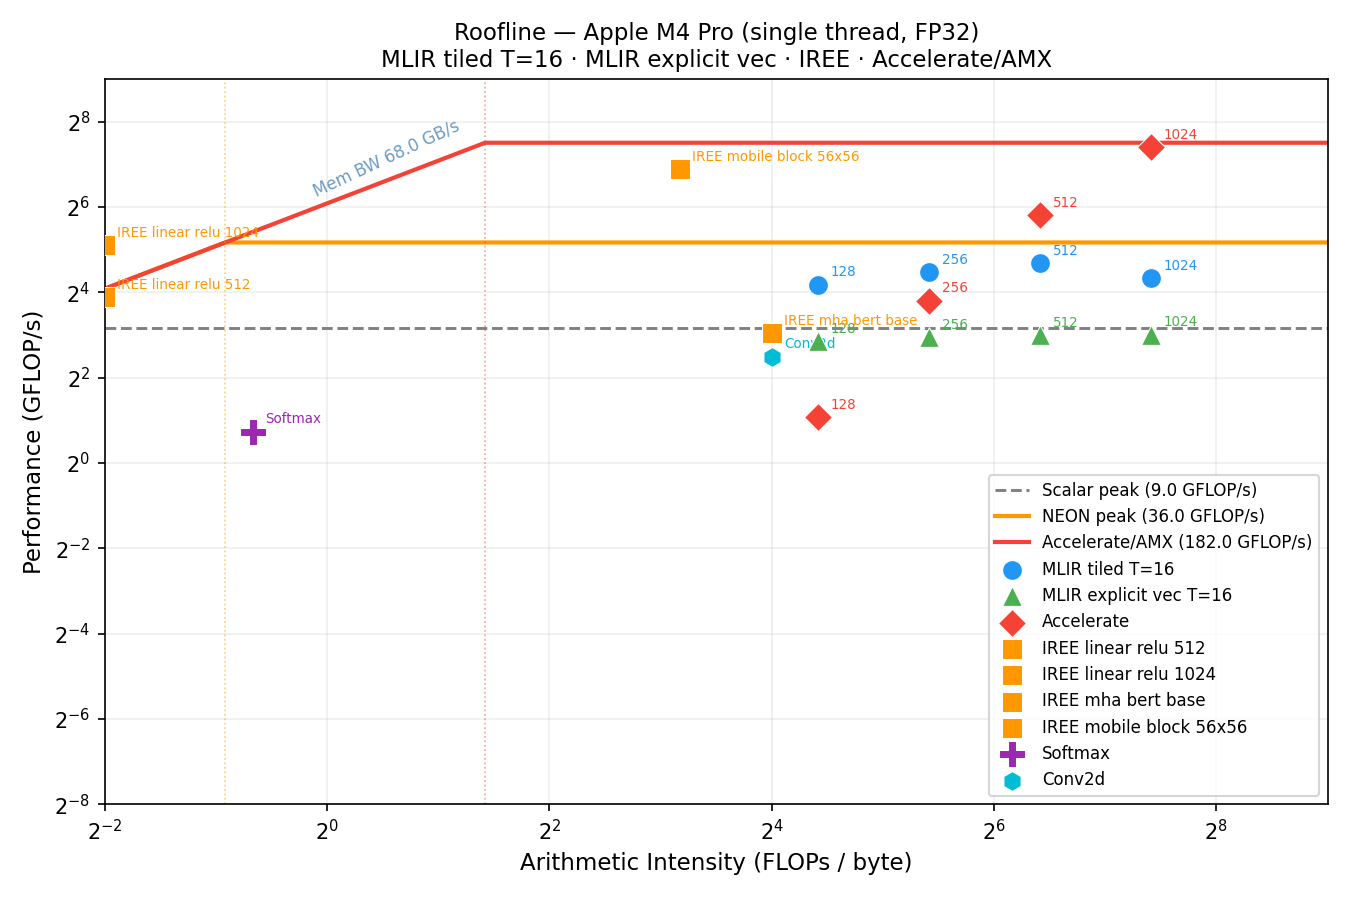
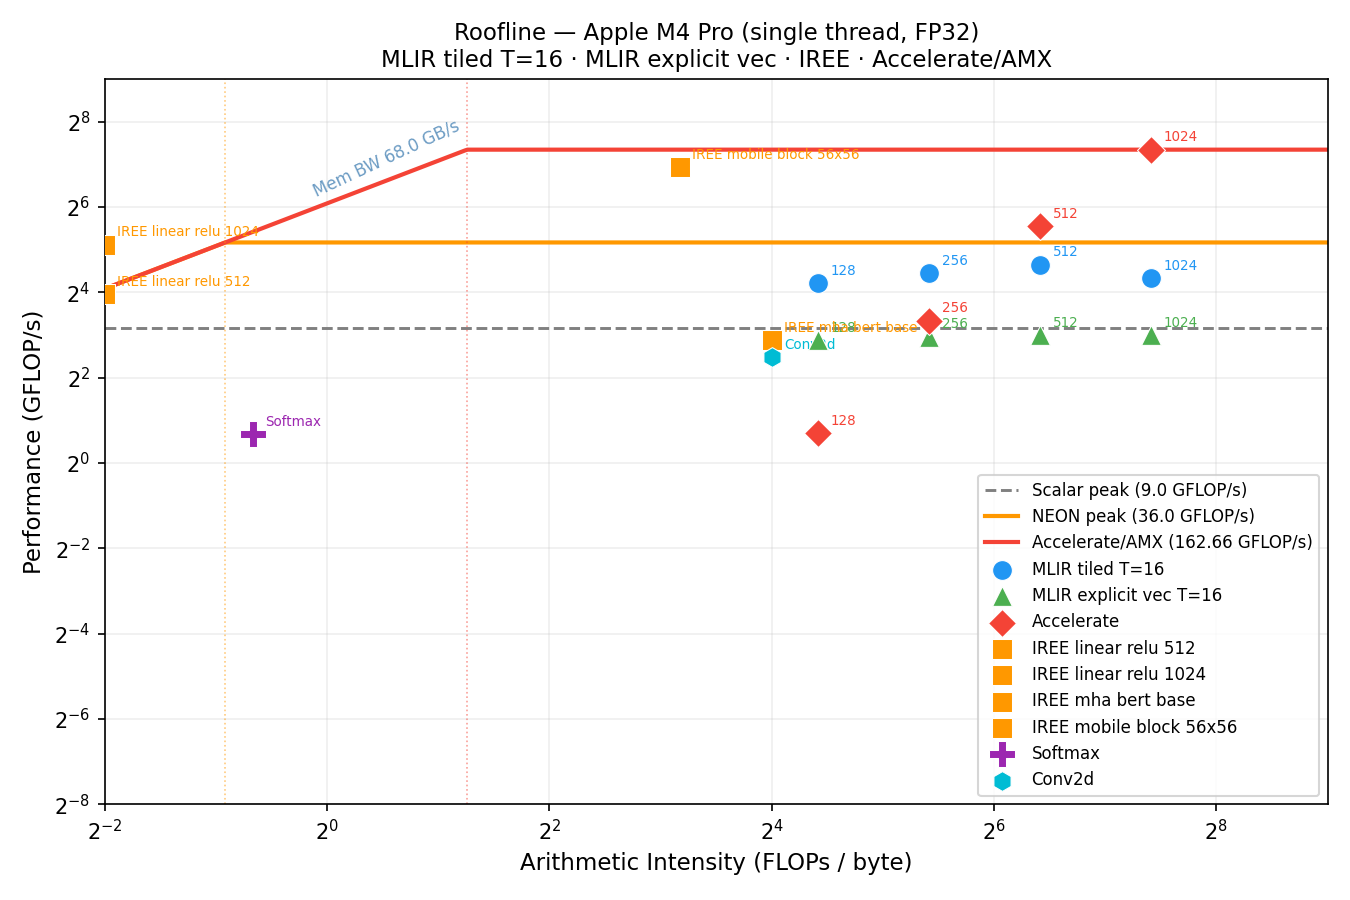
Update results

diff --git a/baselines/blas_matmul.c b/baselines/blas_matmul.c
@@ -3,7 +3,8 @@
 //
 // Build:  clang -O3 -march=native -DSIZE=512 blas_matmul.c -o blas_matmul_512 \
 //               -framework Accelerate
-// Run:    hyperfine --warmup 5 --runs 20 ./blas_matmul_512
+// Run:    ./blas_matmul_512 [NITER]   (default NITER=1)
+//   NITER>1 amortises process-startup overhead: report hyperfine wall-time / NITER.
 
 #include <Accelerate/Accelerate.h>
 #include <math.h>
@@ -21,7 +22,8 @@ static void fill_random(float *buf, int n) {
         buf[i] = (float)rand() / (float)RAND_MAX - 0.5f;
 }
 
-int main(void) {
+int main(int argc, char *argv[]) {
+    int niter = argc > 1 ? atoi(argv[1]) : 1;
     srand(42);
 
     float *A = aligned_alloc(64, (size_t)SIZE * SIZE * sizeof(float));
@@ -33,12 +35,14 @@ int main(void) {
     fill_random(B, SIZE * SIZE);
     memset(C, 0, (size_t)SIZE * SIZE * sizeof(float));
 
-    cblas_sgemm(CblasRowMajor,
-                CblasNoTrans, CblasNoTrans,
-                SIZE, SIZE, SIZE,
-                1.0f, A, SIZE,
-                      B, SIZE,
-                0.0f, C, SIZE);
+    for (int iter = 0; iter < niter; iter++) {
+        cblas_sgemm(CblasRowMajor,
+                    CblasNoTrans, CblasNoTrans,
+                    SIZE, SIZE, SIZE,
+                    1.0f, A, SIZE,
+                          B, SIZE,
+                    0.0f, C, SIZE);
+    }
 
     // Anti-optimisation guard: print one value so the compiler cannot elide the call
     printf("%.6f\n", (double)C[0]);

diff --git a/scripts/plot_roofline.py b/scripts/plot_roofline.py
@@ -13,8 +13,8 @@ import matplotlib.patches as mpatches
 
 # ── Hardware constants (M4 Pro, single perf core) ─────────────────────────
 PEAK_SCALAR   = 9.0    # GFLOP/s  (2 FLOPs/cycle × 4.5 GHz, no SIMD)
-PEAK_NEON     = 36.0   # GFLOP/s  (8 f32 lanes × 2 FLOPs/cycle × 4.5 GHz)
-PEAK_AMX      = 182.0  # GFLOP/s  (Accelerate BLAS measured at N=1024 — proxy for AMX peak)
+PEAK_NEON     = 36.0   # GFLOP/s  (4 f32 lanes × 2 FLOPs/lane (FMA) × 4.5 GHz)
+PEAK_AMX      = 182.0  # GFLOP/s  fallback; overwritten below from rq5_vs_baseline.csv
 MEM_BW        = 68.0   # GB/s
 
 RESULTS = os.path.join(os.path.dirname(__file__), "..", "results")
@@ -34,6 +34,10 @@ if os.path.exists(rq5_file):
             key = (int(row["size_N"]), row["variant"])
             if row["gflops"] not in ("N/A", ""):
                 rq5[key] = float(row["gflops"])
+
+# Derive PEAK_AMX from the measured Accelerate N=1024 result (proxy for AMX ceiling)
+if (1024, "accelerate_blas") in rq5:
+    PEAK_AMX = rq5[(1024, "accelerate_blas")]
 
 for N in [128, 256, 512, 1024]:
     ai = matmul_ai(N)

diff --git a/README.md b/README.md
@@ -2,6 +2,8 @@
 
 Empirical study of MLIR optimization passes on AArch64 CPU (Apple M4 Pro), assisted by `Claude:Sonnet4.7`.
 
+> Results and discussion: **[federicobruzzone.github.io/posts/mlir-study.html](https://federicobruzzone.github.io/posts/mlir-study.html)**
+
 ## Roofline
 
 ![Roofline — Apple M4 Pro](results/roofline.png)
@@ -17,7 +19,7 @@ Empirical study of MLIR optimization passes on AArch64 CPU (Apple M4 Pro), assis
 | **RQ1** | How does tile size affect performance across problem sizes on AArch64? | T=16 is **4–6× faster than T=64** (up to 9× vs worst tile at N=1024). llvm-mca shows same IPC across tile sizes — the speedup is purely from cache behavior, not instruction quality. T=64 triggers catastrophic cache aliasing with `--mattr=apple-m4` at `-O3`. |
 | **RQ2** | Do Affine, SCF, and tiled lowering paths produce measurably different performance? | Affine ≡ SCF (< 0.1% difference at all sizes). T=16 tiling gives **7–8× speedup** over untiled at N ≥ 512 (N=1024: 863ms → 106ms). |
 | **RQ3** | What is the impact of `--affine-loop-fusion` on a matmul+relu+bias chain? | No measurable effect (Δ < 1σ): matmul O(N³) dominates; elementwise ops are < 0.2% of total time. |
-| **RQ4** | Do the same tiling patterns hold across conv2d, batch\_matmul, softmax? | Yes for compute-bound kernels (conv2d, batch\_matmul). Softmax is memory-bound (AI = 0.63 FLOPs/B < ridge point) and does not benefit from tiling. |
+| **RQ4** | Do the same tiling patterns hold across conv2d, batch\_matmul, softmax? | Yes for compute-bound kernels (conv2d, batch\_matmul). Softmax (AI = 0.63 FLOPs/B, **above** the ridge point ~0.53) is theoretically compute-bound but achieves only 4.6% efficiency — the bottleneck is scalar `math.exp` (no SIMD) and sequential `scf.for` reduction loops, not memory bandwidth. Tiling is irrelevant. |
 | **RQ5** | How large is the gap between MLIR standard passes and Apple Accelerate (AMX)? | **8× gap** at N=1024 (MLIR tiled T=16: 20 GFLOP/s vs Accelerate: 169 GFLOP/s). Explicit MLIR vectorization via `affine-super-vectorize` is **2.5× slower** than relying on LLVM's auto-vectorizer. AMX is inaccessible from any MLIR standard pass. |
 
 **Three-tier result (matmul 1024², single thread FP32):**
@@ -50,23 +52,35 @@ Apple M4 Pro — recorded in `results/environment.txt`.
 
 ## Measurement Methodology
 
-All benchmarks compile MLIR to **native AoT binaries** via `scripts/_compile_native.sh`
+### RQ1–RQ5 (hand-written MLIR kernels + Accelerate baseline)
+
+Kernels compile to **native AoT binaries** via `scripts/_compile_native.sh`
 (`mlir-translate --mlir-to-llvmir` → Homebrew LLVM 22 `clang -O3 -march=native`).
 `mlir-runner` (JIT path) is **not used** for any timing — see `scripts/_run_mlir.sh` for why it was abandoned.
 
-Each `@main()` runs the kernel **NITER times** inside an `scf.for` loop.
+Each binary runs the kernel **NITER times** in a loop (`scf.for` in MLIR `@main()`; a C `for` loop in the Accelerate baseline).
 `hyperfine` measures wall-time of the entire process; scripts divide by NITER to recover per-call latency.
-NITER is chosen so that process-startup overhead (~50ms fixed cost on macOS) is < 10% of total:
+NITER is chosen so that process-startup overhead (~50ms fixed cost on macOS) is kept small:
 
-| Problem size | NITER | Approx. kernel time | Overhead fraction |
+| Problem size | NITER | Approx. total wall-time | Startup fraction |
 |---|---|---|---|
-| N=128 | 100 | ~200ms total | < 25% |
-| N=256 | 20 | ~200ms total | < 20% |
-| N=512 | 5 | ~250ms total | < 15% |
-| N=1024 | 2 | ~1.5s total | < 5% |
+| N=128 | 100 | ~200ms | < 25% |
+| N=256 | 20  | ~200ms | < 20% |
+| N=512 | 5   | ~250ms | < 15% |
+| N=1024 | 2  | ~1.5s  | < 5%  |
 
 `_compile_native.sh` uses the **same LLVM toolchain** as `mlir-translate` (Homebrew LLVM 22)
-to avoid IR-attribute mismatches when Xcode's bundled clang encounters LLVM 22 intrinsic attributes.
+to avoid IR-attribute mismatches with Xcode's bundled clang.
+
+The **Accelerate/AMX ceiling** in the roofline plot is read dynamically from `rq5_vs_baseline.csv`
+(measured GFLOP/s of `cblas_sgemm` at N=1024) — not hardcoded.
+
+### RQ-IREE (real PyTorch models)
+
+Models compile to **IREE vmfb binaries** via `iree-compile` (AoT).
+Timing uses `iree-benchmark-module` which runs the model **in-process** for 200 repetitions —
+no per-invocation process startup overhead.
+`rq_iree_clean.csv` (used by the roofline plot) measures the same way via the Python IREE runtime.
 
 ---
 
@@ -219,22 +233,22 @@ All pipelines end with the same LLVM lowering suffix:
 | `rq3_fusion.sh` | `make rq3` | `rq3_fusion.csv` | variant, time_mean_s, time_stddev_s |
 | `rq4_workloads.sh` | `make rq4` | `rq4_workloads.csv` | kernel, variant, time_mean_s, time_stddev_s |
 | `rq5_vs_baseline.sh` | `make rq5` | `rq5_vs_baseline.csv` | size_N, variant, time_mean_s, time_stddev_s, gflops |
-| `rq_iree.sh` + `bench_iree_runtime.py` | `make rq-iree` | `rq_iree.csv` + `rq_iree_clean.csv` | wall-clock (incl. load) + per-call (no load) |
+| `rq_iree.sh` + `bench_iree_runtime.py` | `make rq-iree` | `rq_iree.csv` + `rq_iree_clean.csv` | per-call via `iree-benchmark-module` (in-process) + per-call via Python runtime |
 
 ### Analysis
 
 | Script | Command | Output | Notes |
 |--------|---------|--------|-------|
-| `bench_iree_runtime.py` | `.venv/bin/python3 scripts/bench_iree_runtime.py` | `rq_iree_clean.csv` | Per-call timing without 700× module-load overhead. Requires vmfb files in `/tmp/mlir_iree/` — run `make rq-iree` first |
+| `bench_iree_runtime.py` | `.venv/bin/python3 scripts/bench_iree_runtime.py` | `rq_iree_clean.csv` | Per-call timing via Python IREE runtime (in-process, no startup overhead). Requires vmfb files in `/tmp/mlir_iree/` — run `make rq-iree` first |
 | `llvm_mca_analysis.sh` | `make llvm-mca` | `llvm_mca.csv` + `llvm_mca_*.txt` | Static IPC via llvm-mca (LLVM 23 from source build). Uses Homebrew llc + source-built llvm-mca |
 | `roofline.sh` | `make roofline` | `roofline.csv` | Text table: AI, GFLOP/s, efficiency % |
 | `plot_roofline.py` | `make roofline` | `roofline.{pdf,png}` | Reads `rq5_vs_baseline.csv`, `rq4_workloads.csv`, `rq_iree_clean.csv`. **Requires `rq_iree_clean.csv` to show IREE points** |
 
-### Known Limitation — IREE vmfb files
+### Note — IREE vmfb files
 
-`bench_iree_runtime.py` reads compiled model binaries from `/tmp/mlir_iree/*.vmfb`.  
+Both `rq_iree.sh` and `bench_iree_runtime.py` read compiled model binaries from `/tmp/mlir_iree/*.vmfb`.  
 These live in `/tmp/` and are **not persisted** across reboots.  
-`make rq-iree` always recompiles them and immediately calls `bench_iree_runtime.py`, so running:
+`make rq-iree` always recompiles them before benchmarking, so running:
 
 ```bash
 make rq-iree && make roofline
@@ -293,7 +307,7 @@ Generated by `scripts/plot_roofline.py` using matplotlib. Reads all result CSVs 
 - MLIR explicit vec T=16 (affine-super-vectorize, same sizes) — from `rq5_vs_baseline.csv`
 - Accelerate BLAS (same sizes) — from `rq5_vs_baseline.csv`
 - IREE models (linear, MHA, mobile) — from `rq_iree_clean.csv`
-- Softmax 512×512 — from `rq4_workloads.csv` *(memory-bound, below ridge point)*
+- Softmax 512×512 — from `rq4_workloads.csv` *(AI=0.63, above ridge point ~0.53 — compute-bound but 4.6% efficiency due to scalar exp)*
 - Conv2d 56×56 — from `rq4_workloads.csv`
 
 > **N=128 points** use NITER=100 iterations per binary invocation; reported time is wall-time ÷ 100, so process-startup overhead is amortised to < 5%.